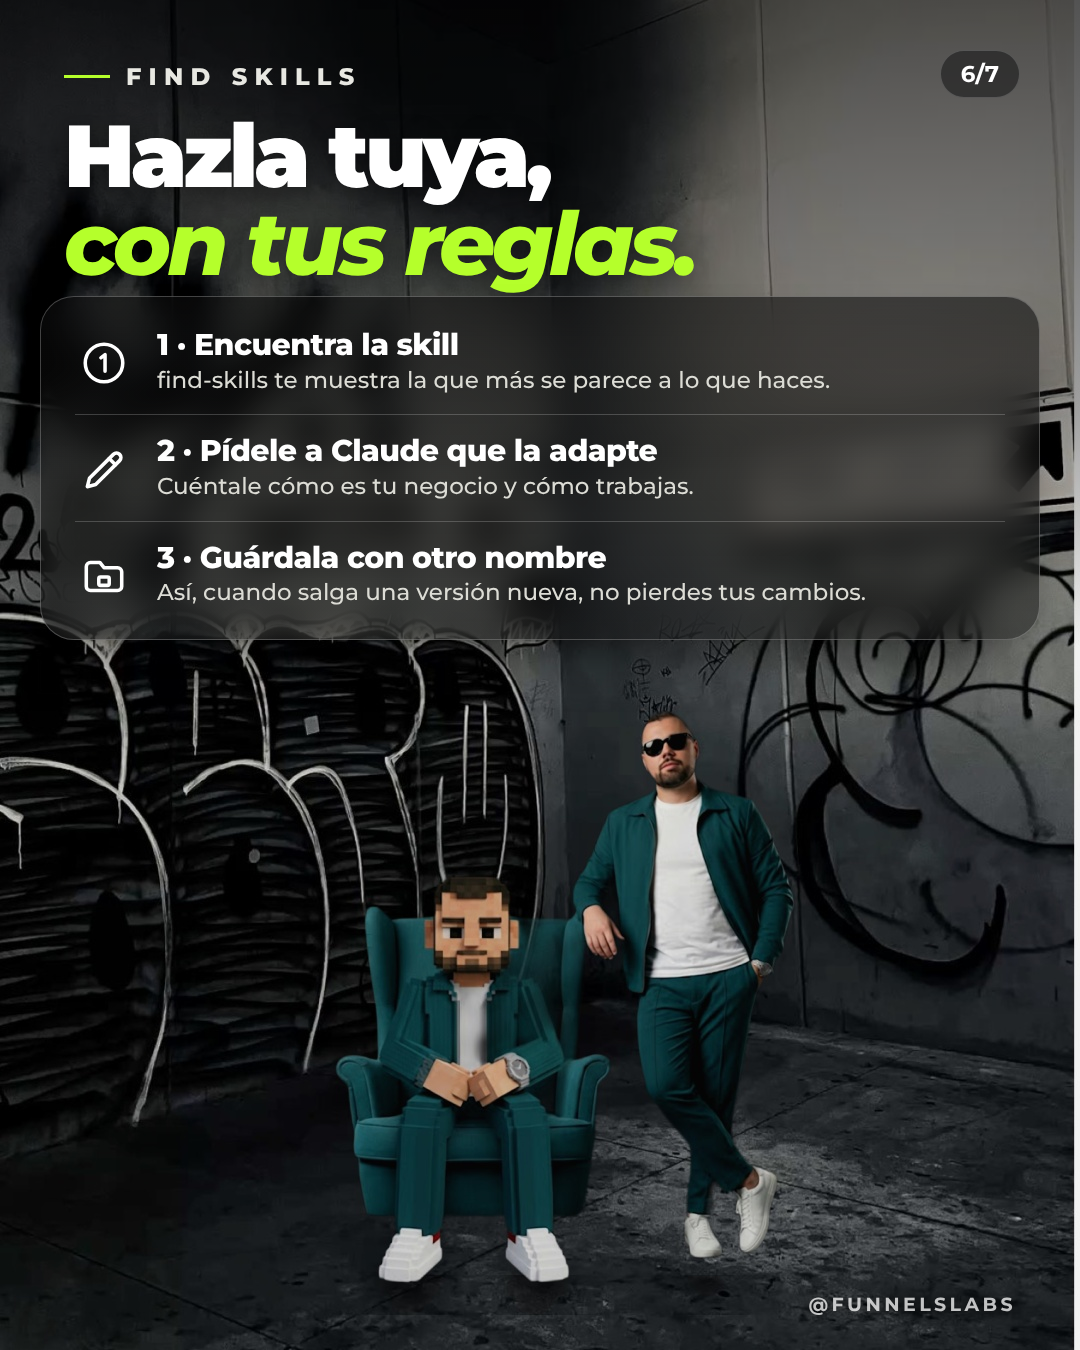
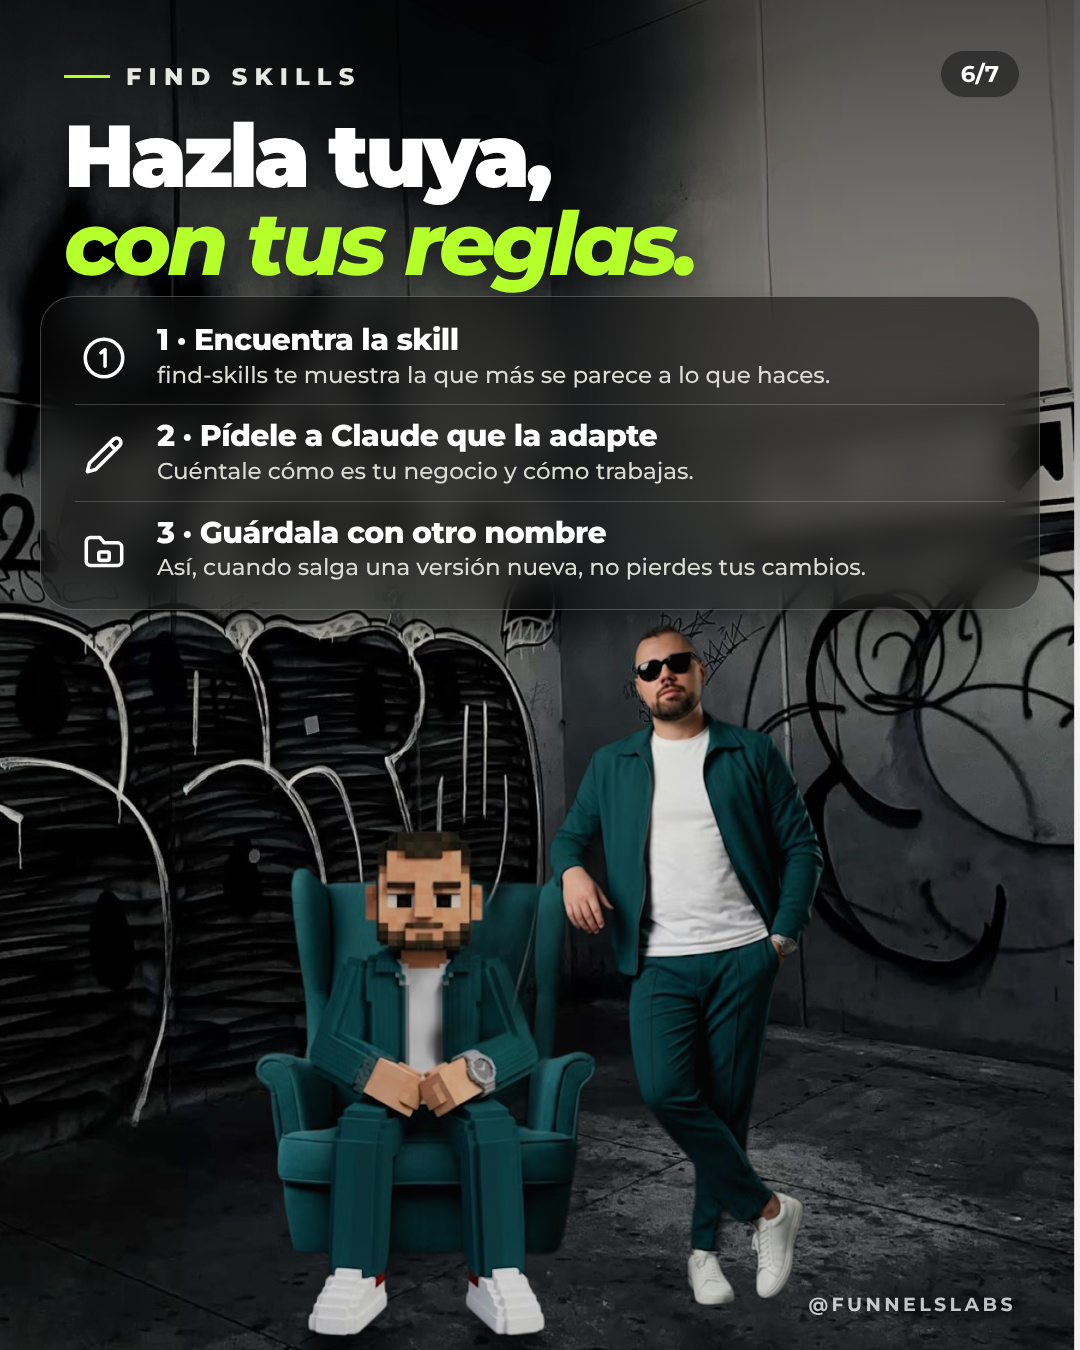
find-skills: personajes más grandes en slides 2, 3, 5 y 6
Paneles más compactos (slide 5 en 3 columnas) para dar espacio y
escala automática de los personajes según el borde del panel.

Claude-Session: https://claude.ai/code/session_018d4LXHkXweDJXxfN5x99dL

Changed region(s): [[0.0306, 0.2178, 0.9778, 1.0]]

diff --git a/carruseles/find-skills/carrusel.html b/carruseles/find-skills/carrusel.html
@@ -19,9 +19,10 @@ body{background:#333;font-family:"Montserrat",Arial,sans-serif;display:flex;flex
 .sub{position:absolute;z-index:5;left:64px;right:64px;top:318px;font-weight:600;font-size:31px;line-height:1.3;color:#ececE6;letter-spacing:-0.01em;text-shadow:0 2px 18px rgba(0,0,0,.6)}
 .sub b{color:#fff;font-weight:800}
 .panel{position:absolute;z-index:5;left:40px;right:40px;border-radius:34px;padding:12px 34px;background:linear-gradient(180deg,rgba(12,12,12,.58),rgba(12,12,12,.46));border:1.5px solid rgba(255,255,255,.24);backdrop-filter:blur(18px);-webkit-backdrop-filter:blur(18px);box-shadow:0 30px 60px -30px rgba(0,0,0,.8)}
-.row{display:flex;gap:24px;align-items:center;padding:19px 0;border-bottom:1px solid rgba(255,255,255,.2)}
+.row{display:flex;gap:24px;align-items:center;padding:14px 0;border-bottom:1px solid rgba(255,255,255,.2)}
 .row.last{border-bottom:0}
 .cmp .row{padding:10px 0}.cmp .note{padding-bottom:10px}
+.cols{display:grid;grid-template-columns:repeat(3,1fr);gap:20px;padding:4px 0 14px}.cols>div{display:flex;flex-direction:column;gap:6px}.cols svg{width:44px;height:44px;color:#fff;margin-bottom:2px}.cols b{font-weight:800;font-size:27px;letter-spacing:-0.02em}.cols span{font-weight:500;font-size:21px;line-height:1.3;color:#dcdcd5}.cols code{font-family:"Courier New",monospace;font-weight:700;font-size:19px;word-break:break-all}
 .row .ic{flex:none;width:58px;height:58px;color:#fff;display:flex;align-items:center;justify-content:center}.row .ic svg{width:50px;height:50px}
 .row b{display:block;font-weight:800;font-size:30px;letter-spacing:-0.02em;line-height:1.15}
 .row span{display:block;font-weight:500;font-size:23px;line-height:1.3;color:#dcdcd5;margin-top:3px}
@@ -48,9 +49,11 @@ body{background:#333;font-family:"Montserrat",Arial,sans-serif;display:flex;flex
 <div class="code">npx skills add vercel-labs/skills --skill find-skills -a claude-code -g -y</div>
 <div class="note">Pégalo en tu terminal. Queda disponible en todos tus proyectos.</div>
 <div class="ph2" style="margin-top:8px;padding-bottom:2px">3 formas de buscar</div>
-<div class="row"><span class="ic"><svg viewBox="0 0 24 24" fill="none" stroke="currentColor" stroke-width="1.7" stroke-linecap="round" stroke-linejoin="round"><path d="M4 5h16v11H9.5L5 20v-4H4z"/></svg></span><div><b>En Claude</b><span>Pídeselo como hablas.</span></div></div>
-<div class="row"><span class="ic"><svg viewBox="0 0 24 24" fill="none" stroke="currentColor" stroke-width="1.7" stroke-linecap="round" stroke-linejoin="round"><rect x="3" y="4.5" width="18" height="15" rx="2.5"/><path d="M7 10l3 2.5L7 15M12.5 15H17"/></svg></span><div><b>En la terminal</b><span><code>npx skills find [palabra]</code></span></div></div>
-<div class="row last"><span class="ic"><svg viewBox="0 0 24 24" fill="none" stroke="currentColor" stroke-width="1.7" stroke-linecap="round" stroke-linejoin="round"><rect x="3" y="4.5" width="18" height="15" rx="2.5"/><path d="M3 9.5h18"/><circle cx="6" cy="7" r=".5" fill="currentColor"/><circle cx="8.2" cy="7" r=".5" fill="currentColor"/></svg></span><div><b>En la web</b><span>skills.sh: las más usadas y las nuevas.</span></div></div>
+<div class="cols">
+<div><svg viewBox="0 0 24 24" fill="none" stroke="currentColor" stroke-width="1.7" stroke-linecap="round" stroke-linejoin="round"><path d="M4 5h16v11H9.5L5 20v-4H4z"/></svg><b>En Claude</b><span>Pídeselo como hablas.</span></div>
+<div><svg viewBox="0 0 24 24" fill="none" stroke="currentColor" stroke-width="1.7" stroke-linecap="round" stroke-linejoin="round"><rect x="3" y="4.5" width="18" height="15" rx="2.5"/><path d="M7 10l3 2.5L7 15M12.5 15H17"/></svg><b>En la terminal</b><span><code>npx skills find [palabra]</code></span></div>
+<div><svg viewBox="0 0 24 24" fill="none" stroke="currentColor" stroke-width="1.7" stroke-linecap="round" stroke-linejoin="round"><rect x="3" y="4.5" width="18" height="15" rx="2.5"/><path d="M3 9.5h18"/><circle cx="6" cy="7" r=".5" fill="currentColor"/><circle cx="8.2" cy="7" r=".5" fill="currentColor"/></svg><b>En la web</b><span>skills.sh: las más usadas y las nuevas.</span></div>
+</div>
 </div><div class="foot"><span>@funnelslabs</span></div></section><section class="slide"><img class="bleed" src="img/f6.jpg"><div class="shade"></div><div class="n">6/7</div><div class="kick"><i></i>Find skills</div><div class="h" style="font-size:88px">Hazla tuya,<br><span class="l">con tus reglas.</span></div>
 <div class="panel" style="top:296px">
 <div class="row"><span class="ic"><svg viewBox="0 0 24 24" fill="none" stroke="currentColor" stroke-width="1.7" stroke-linecap="round" stroke-linejoin="round"><circle cx="12" cy="12" r="9"/><path d="M10.5 9.5L12.5 8v8"/></svg></span><div><b>1 · Encuentra la skill</b><span>find-skills te muestra la que más se parece a lo que haces.</span></div></div>

diff --git a/carruseles/find-skills/fondos.py b/carruseles/find-skills/fondos.py
@@ -5,12 +5,14 @@ from PIL import Image
 os.chdir(os.path.dirname(os.path.abspath(__file__)))
 W,H=1080,1350
 # slide: (fondo, personaje, y0 del recorte original, ancho, top, dx, ajustes del fondo)
+PT={2:626,3:706,5:657,6:626}  # y de la cabeza = borde inferior del panel + 16
+FEET=1335
 CFG={
- 1:dict(bg=1,ch='brazos',   y0=194,w=860,top=404,dx=0, shift=0.0,bright=.92),
- 2:dict(bg=2,ch='silla-lado',y0=232,w=628,top=662,dx=0,shift=1.0,bright=.90),
- 3:dict(bg=3,ch='chat',     y0=172,w=545,top=720,dx=0, shift=1.0,bright=.95),
- 5:dict(bg=4,ch='caminando',y0=227,w=554,top=744,dx=0, shift=1.0,bright=.85,billboard=True),
- 6:dict(bg=5,ch='modelo',   y0=171,w=585,top=690,dx=0, shift=1.0,bright=.95),
+ 1:dict(bg=1,ch='brazos',   w=860,top=404,y0=194,dx=0, shift=0.0,bright=.92),
+ 2:dict(bg=2,ch='silla-lado',ytop=PT[2],dx=0,shift=1.0,bright=.90),
+ 3:dict(bg=3,ch='chat',     ytop=PT[3],dx=0, shift=1.0,bright=.95),
+ 5:dict(bg=4,ch='caminando',ytop=PT[5],dx=0, shift=1.0,bright=.85,billboard=True),
+ 6:dict(bg=5,ch='modelo',   ytop=PT[6],dx=0, shift=1.0,bright=.95),
  7:dict(bg=6,ch='abrazo',   y0=72, w=744,top=430,dx=0, shift=0.0,bright=1.0,floor=True),
 }
 def load_bg(n,c):
@@ -48,13 +50,17 @@ def cut(c):
     al=cv2.GaussianBlur(al*cv2.dilate(keep,np.ones((5,5),np.uint8)),(0,0),0.8)
     return rgb,al
 def place(rgb,al,c):
-    s=c['w']/rgb.shape[1]
+    ys,xs=np.where(al>.5); ymin,ymax,xmin,xmax=ys.min(),ys.max(),xs.min(),xs.max()
+    if 'ytop' in c:
+        s=(FEET-c['ytop'])/(ymax-ymin); top=int(c['ytop']-ymin*s); left=int(W/2+c['dx']-(xmin+xmax)/2*s)
+    else:
+        s=c['w']/rgb.shape[1]; left=(W-c['w'])//2+c['dx']; top=int(c['top']-c['y0']*s)
     nw,nh=int(rgb.shape[1]*s),int(rgb.shape[0]*s)
-    rgb=cv2.resize(rgb,(nw,nh),interpolation=cv2.INTER_AREA); al=cv2.resize(al,(nw,nh),interpolation=cv2.INTER_AREA)
-    left=(W-c['w'])//2+c['dx']; top=int(c['top']-c['y0']*s)
+    rgb=cv2.resize(rgb,(nw,nh),interpolation=cv2.INTER_AREA if s<1 else cv2.INTER_CUBIC); al=cv2.resize(al,(nw,nh),interpolation=cv2.INTER_AREA if s<1 else cv2.INTER_CUBIC)
     R=np.zeros((H,W,3),np.float32); A=np.zeros((H,W),np.float32)
     ys0,xs0=max(top,0),max(left,0); ys1,xs1=min(top+nh,H),min(left+nw,W)
     R[ys0:ys1,xs0:xs1]=rgb[ys0-top:ys1-top,xs0-left:xs1-left]; A[ys0:ys1,xs0:xs1]=al[ys0-top:ys1-top,xs0-left:xs1-left]
+    print(c['ch'],'escala',round(s,2),'alto',round((ymax-ymin)*s))
     return R,A
 def shadow(A):
     ys,xs=np.where(A>.5); yb=ys.max(); h=110
@@ -64,7 +70,7 @@ def shadow(A):
     sh[y:y+sq.shape[0],:]=sq[:H-y]
     sh=cv2.GaussianBlur(sh,(0,0),11)
     wide=cv2.GaussianBlur(A[yb-30:yb+1].max(0,keepdims=True).repeat(40,0),(0,0),20)  # sombra ancha suave
-    big=np.zeros_like(A); big[yb-6:yb+34]=wide[:,:]
+    big=np.zeros_like(A); e=min(yb+34,H); big[yb-6:e]=wide[:e-(yb-6)]
     return np.clip(sh*1.1+big*.5,0,.7)
 for n,c in CFG.items():
     bg=load_bg(c['bg'],c); rgb,al=cut(c); R,A=place(rgb,al,c)

diff --git a/carruseles/find-skills/generar.py b/carruseles/find-skills/generar.py
@@ -49,9 +49,11 @@ S.append(f'''<section class="slide">{BG(5)}{head(5,'Instálala con','un solo com
 <div class="code">npx skills add vercel-labs/skills --skill find-skills -a claude-code -g -y</div>
 <div class="note">Pégalo en tu terminal. Queda disponible en todos tus proyectos.</div>
 <div class="ph2" style="margin-top:8px;padding-bottom:2px">3 formas de buscar</div>
-{row('chat','En Claude','Pídeselo como hablas.')}
-{row('term','En la terminal','<code>npx skills find [palabra]</code>')}
-{row('web','En la web','skills.sh: las más usadas y las nuevas.',True)}
+<div class="cols">
+<div>{ic('chat')}<b>En Claude</b><span>Pídeselo como hablas.</span></div>
+<div>{ic('term')}<b>En la terminal</b><span><code>npx skills find [palabra]</code></span></div>
+<div>{ic('web')}<b>En la web</b><span>skills.sh: las más usadas y las nuevas.</span></div>
+</div>
 </div>{foot}</section>''')
 # 6 hazla tuya
 S.append(f'''<section class="slide">{BG(6)}{head(6,'Hazla tuya,','con tus reglas.',None,88)}
@@ -81,9 +83,10 @@ body{background:#333;font-family:"Montserrat",Arial,sans-serif;display:flex;flex
 .sub{position:absolute;z-index:5;left:64px;right:64px;top:318px;font-weight:600;font-size:31px;line-height:1.3;color:#ececE6;letter-spacing:-0.01em;text-shadow:0 2px 18px rgba(0,0,0,.6)}
 .sub b{color:#fff;font-weight:800}
 .panel{position:absolute;z-index:5;left:40px;right:40px;border-radius:34px;padding:12px 34px;background:linear-gradient(180deg,rgba(12,12,12,.58),rgba(12,12,12,.46));border:1.5px solid rgba(255,255,255,.24);backdrop-filter:blur(18px);-webkit-backdrop-filter:blur(18px);box-shadow:0 30px 60px -30px rgba(0,0,0,.8)}
-.row{display:flex;gap:24px;align-items:center;padding:19px 0;border-bottom:1px solid rgba(255,255,255,.2)}
+.row{display:flex;gap:24px;align-items:center;padding:14px 0;border-bottom:1px solid rgba(255,255,255,.2)}
 .row.last{border-bottom:0}
 .cmp .row{padding:10px 0}.cmp .note{padding-bottom:10px}
+.cols{display:grid;grid-template-columns:repeat(3,1fr);gap:20px;padding:4px 0 14px}.cols>div{display:flex;flex-direction:column;gap:6px}.cols svg{width:44px;height:44px;color:#fff;margin-bottom:2px}.cols b{font-weight:800;font-size:27px;letter-spacing:-0.02em}.cols span{font-weight:500;font-size:21px;line-height:1.3;color:#dcdcd5}.cols code{font-family:"Courier New",monospace;font-weight:700;font-size:19px;word-break:break-all}
 .row .ic{flex:none;width:58px;height:58px;color:#fff;display:flex;align-items:center;justify-content:center}.row .ic svg{width:50px;height:50px}
 .row b{display:block;font-weight:800;font-size:30px;letter-spacing:-0.02em;line-height:1.15}
 .row span{display:block;font-weight:500;font-size:23px;line-height:1.3;color:#dcdcd5;margin-top:3px}
